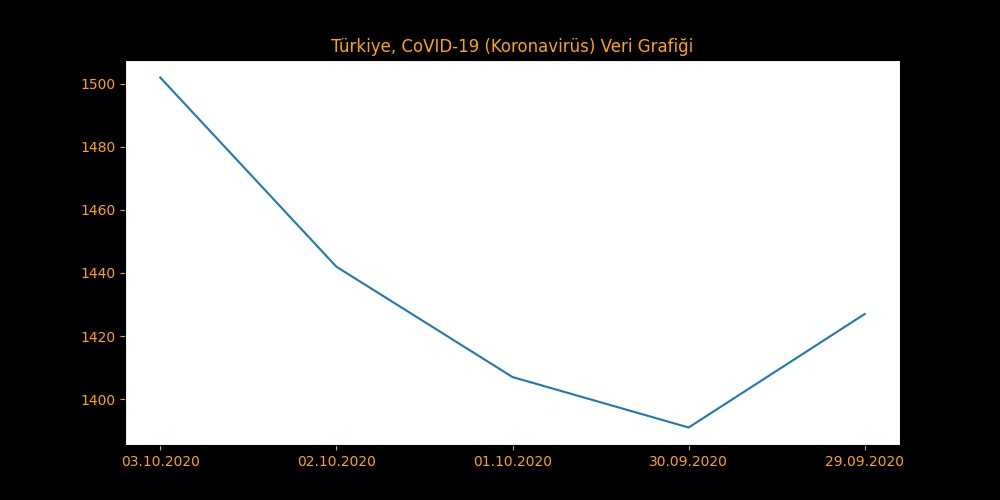
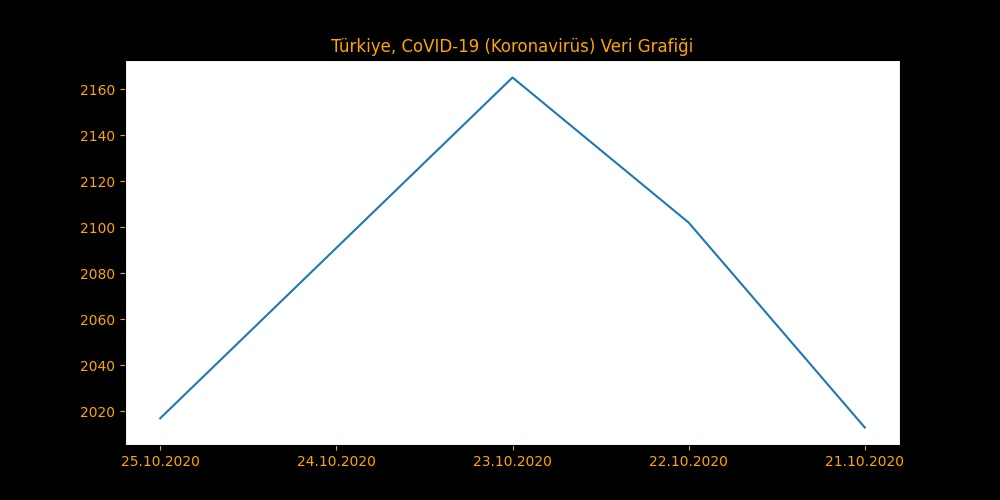
:notebook: Update 21.10.2020

diff --git a/README_TR.md b/README_TR.md
@@ -11,18 +11,18 @@ Burada, Türkiye'nin [COVID-19 (Koronavirüs) (Hakkında bilgi almak için tıkl
 Not: Bütün veriler, Türkiye Sağlık Bakanlığı'ndan sağlanmaktadır. Eğer veriler güncel değilse, bu büyük ihtimal [devletin web sitesi](https://covid19.saglik.gov.tr) ile alakalıdır. Tamamdır, o zaman başlayalım!
 
 Öncelikle bugünün verileri:
-## :calendar: 03.10.2020 Koronavirüs Verileri:
+## :calendar: 25.10.2020 Koronavirüs Verileri:
 | Veri Tipi         | Bugünün Verileri   | Toplam Veriler     |
 | :---              |    :----           |     :---           |
-| Testler           | 103,219    | 10,727,295    |
-| Vakalar           | 1,502   | 319,733    |
-| Tedaviler         | 1,211    | 283,381|
-| Vefatlar          | 59| 8,348   |
+| Testler           | 112,215    | 13,289,813    |
+| Vakalar           | 2,017   | 360,189    |
+| Tedaviler         | 1,297    | 315,203|
+| Vefatlar          | 72| 9,796   |
 
-:clock9: `Son Güncelleme: 04.10.2020 15:10`
+:clock9: `Son Güncelleme: 25.10.2020 22:57`
 \
 \
-Ülkemiz ile alakalı gönderilen verilerde bir gariplik var. Devletin verdiği toplam veriler ile günlük veriler arasında uyuşmazlık mevcut. Eğer her günün verisini birbirine eklersek, Bizim hesaplamamız vakalar için **3281** tane daha az çıkıyor. Bu, ölümler için **36** , testler için **15412** ve tedavi olanlar için **487** . Neden devletimiz böyle bir şey yapıyor anlamıyoruz. YOKSA VERİLER YANLIŞ MI??!?\
+Ülkemiz ile alakalı gönderilen verilerde bir gariplik var. Devletin verdiği toplam veriler ile günlük veriler arasında uyuşmazlık mevcut. Eğer her günün verisini birbirine eklersek, Bizim hesaplamamız vakalar için **1612** tane daha az çıkıyor. Bu, ölümler için **3** , testler için **71925** ve tedavi olanlar için **813** . Neden devletimiz böyle bir şey yapıyor anlamıyoruz. YOKSA VERİLER YANLIŞ MI??!?\
 Neyse tamam, hadi grafikler hakkında konuşalım. Dünle bu günün karşılaştırma grafiği:\
 ![alt text](https://github.com/lysep-corp/COVID-19/blob/master/Graphs/YESTERDAY_COMP_TODAY_TR.jpeg?raw=true)
 

diff --git a/README.md b/README.md
@@ -11,18 +11,18 @@ In this we will gonna show you where is the Turkey going about [COVID-19 Pandemi
 Note: All the data coming from Türk Ministery of Health's public website. If datas are not up-to-date, probably this is about the [goverment's website](https://covid19.saglik.gov.tr) if our server's are not die. Okey, Let's start than!
 
 First today's datas:
-## :calendar: 03.10.2020 Corona virus Datas:
+## :calendar: 25.10.2020 Corona virus Datas:
 | Data Type         | Today's Datas      | All Time Data      |
 | :---              |    :----           |     :---           |
-| Tests             | 103,219    | 319,733    |
-| Cases             | 1,502   | 8,348   |
-| Cures             | 1,211    | 10,727,295    |
-| Deaths            | 59| 283,381|
+| Tests             | 112,215    | 360,189    |
+| Cases             | 2,017   | 9,796   |
+| Cures             | 1,297    | 13,289,813    |
+| Deaths            | 72| 315,203|
 
-:clock9: `Last Update: 04.10.2020 15:10`
+:clock9: `Last Update: 25.10.2020 22:57`
 \
 \
-There is something weird going on about our country's data. There is a little bit difference about goverment's all time data and daily datas. If we gonna add everyday's data to each other, Our calculation is **3281** less than the goverment's case calculation. It's **36** for deaths, **15412** for tests and **487** for cured person count. We don't know why our country is doing that. ARE THE DATAS WRONG??!?\
+There is something weird going on about our country's data. There is a little bit difference about goverment's all time data and daily datas. If we gonna add everyday's data to each other, Our calculation is **1612** less than the goverment's case calculation. It's **3** for deaths, **71925** for tests and **813** for cured person count. We don't know why our country is doing that. ARE THE DATAS WRONG??!?\
 Okey, let's talk about the graphs. Here is today's data is compare with yesterdays:\
 ![YESTERDAY_COMP_TODAY_EN](https://github.com/lysep-corp/COVID-19/blob/master/Graphs/YESTERDAY_COMP_TODAY_EN.jpeg?raw=true)
 
